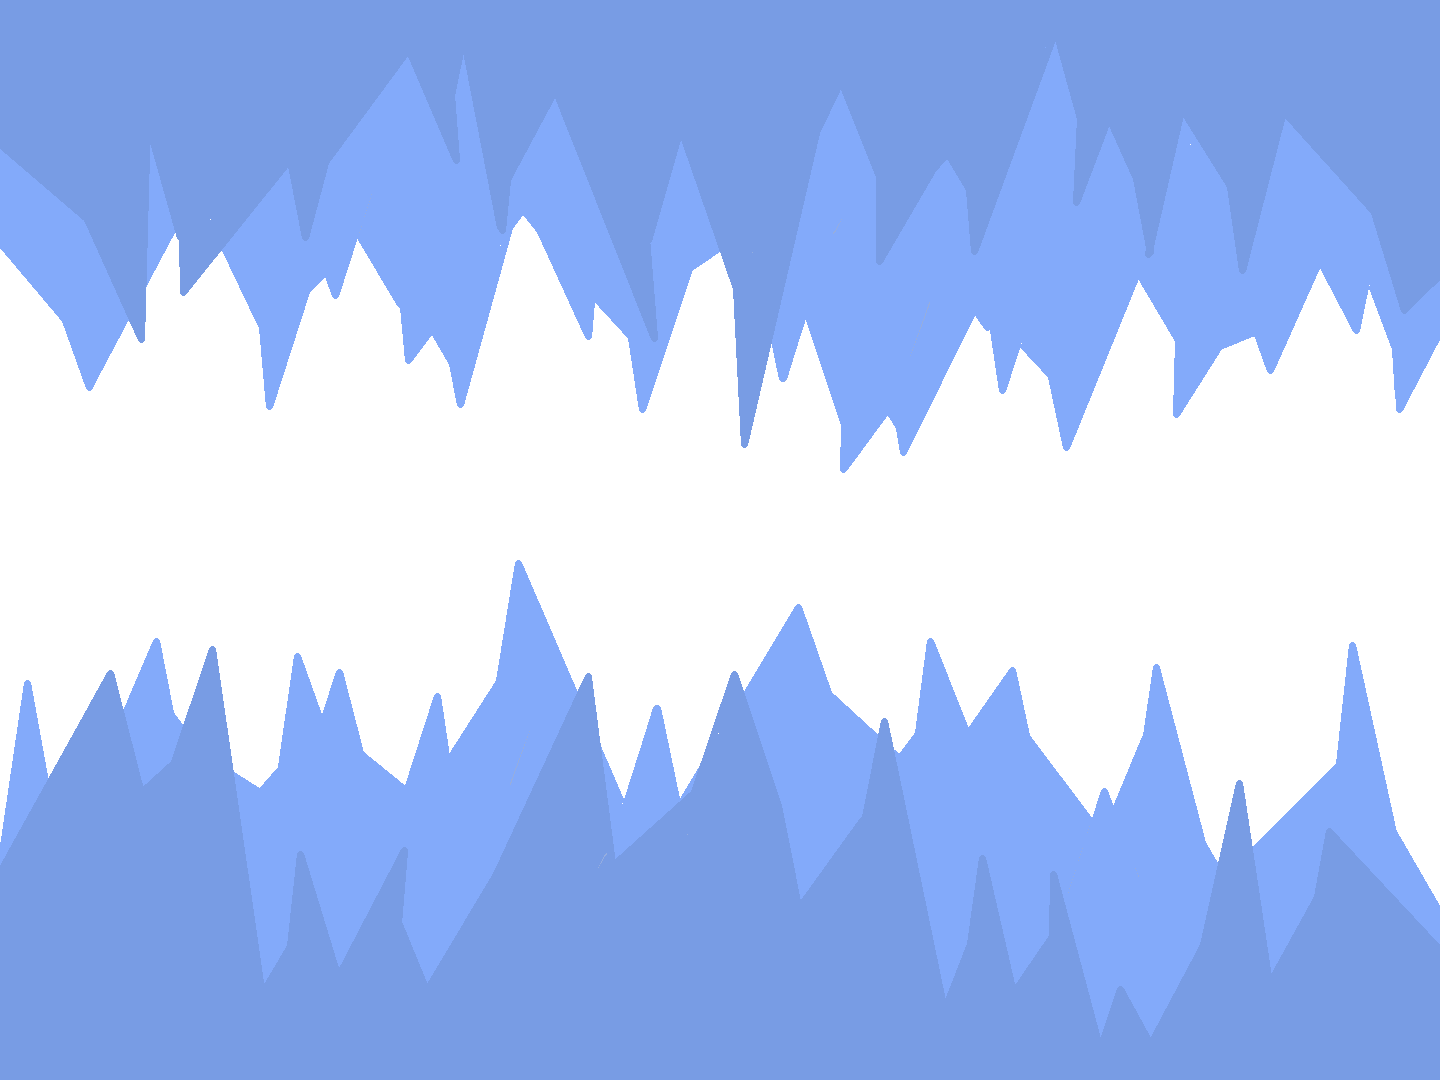
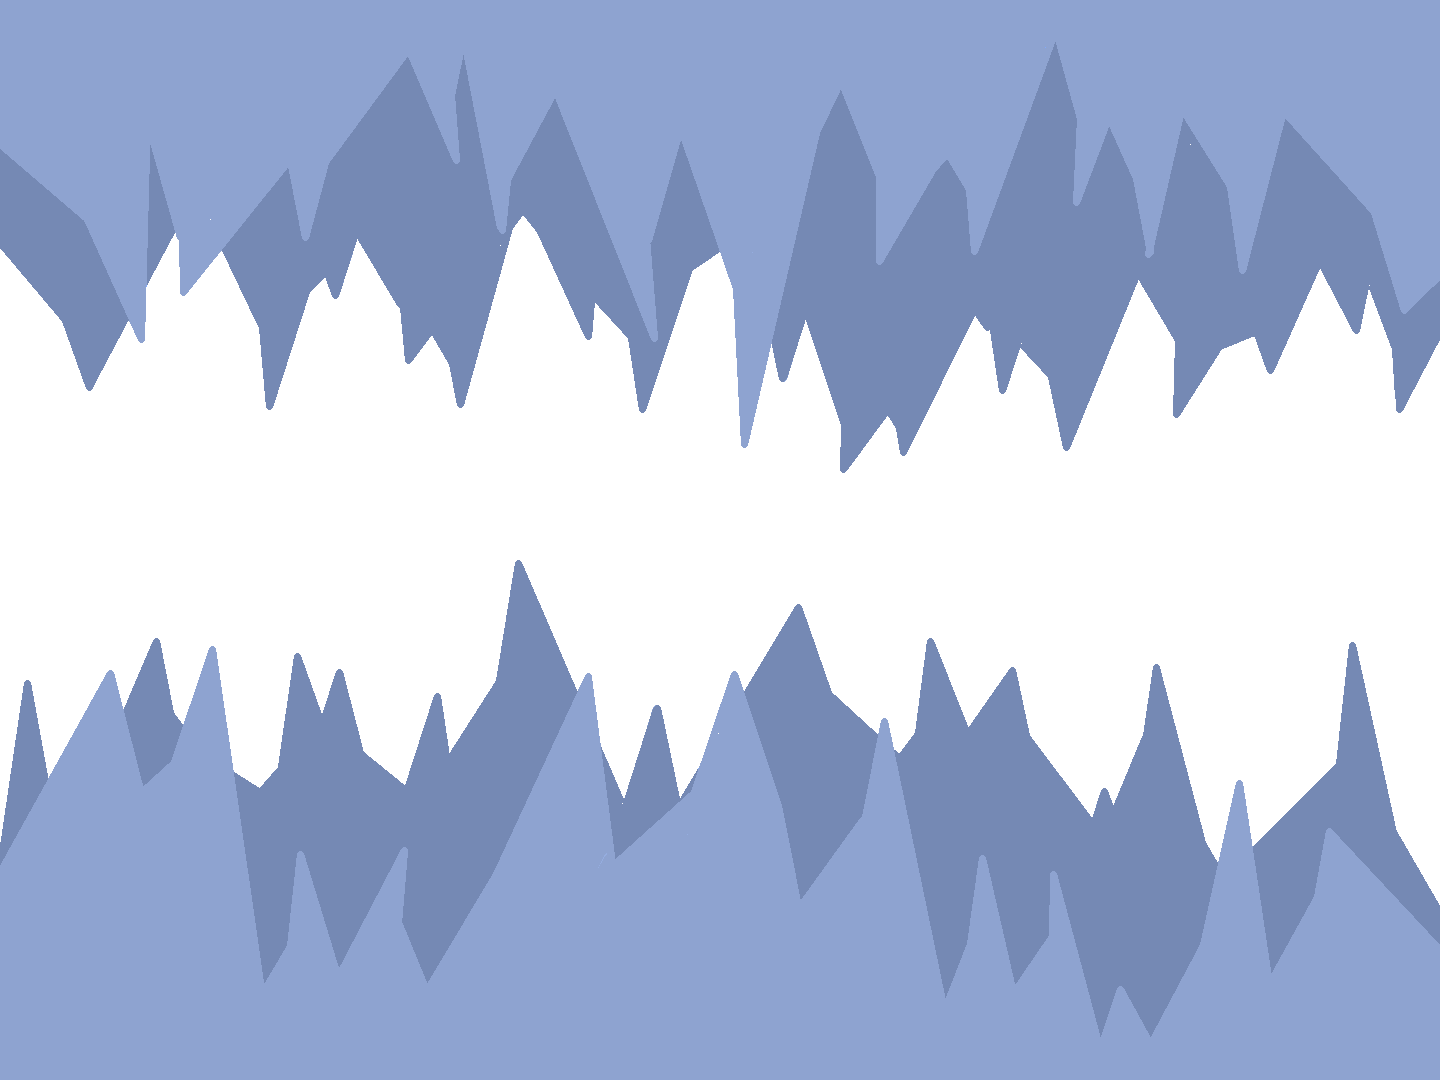
updated background

diff --git a/Assets/Scenes/SceneManagmentScripts/FogPositionUpdater.cs b/Assets/Scenes/SceneManagmentScripts/FogPositionUpdater.cs
@@ -3,11 +3,13 @@ using UnityEngine;
 public class FogPositionUpdater : MonoBehaviour
 {
     public Material fogMaterial;
+    public Material fogmat2;
     public Transform characterTransform;
 
-    void Update()
+    private void Update()
     {
         Vector3 charPos = characterTransform.position;
         fogMaterial.SetVector("_CharacterPosition", new Vector4(charPos.x, charPos.y, 0, 0));
+        fogmat2.SetVector("_CharacterPosition", new Vector4(charPos.x, charPos.y, 0, 0));
     }
 }
